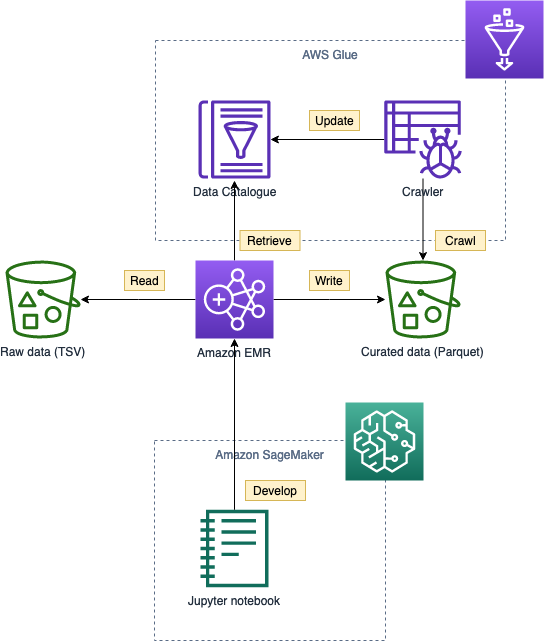
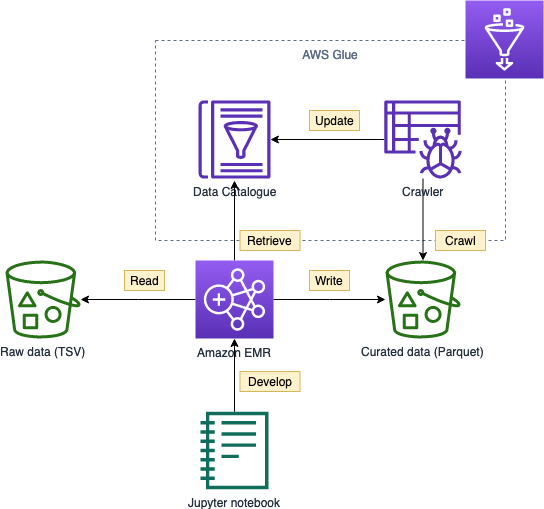
Replace SageMaker notebook by EMR nb

diff --git a/hazelnut/data lake/05a_processing_emr.md b/hazelnut/data lake/05a_processing_emr.md
@@ -1,6 +1,6 @@
 In this task you will
 * Provision an Amazon EMR cluster for data processing with Spark
-* Provision a notebook instance in Amazon SageMaker and connect to the EMR cluster
+noo* Create an EMR notebook and connect to the cluster 
 * Develop a simple PySpark script to convert the customer reviews to Parquet files partitioned by product category
 
 ![data processing with EMR and SageMaker](images/05_processing.png)
@@ -10,9 +10,7 @@ In this task you will
   - [Hardware configuration](#hardware-configuration)
   - [General options](#general-options)
   - [Security options](#security-options)
-- [Provision Amazon SageMaker](#provision-amazon-sagemaker)
-  - [Lifecycle configurations](#lifecycle-configurations)
-  - [Notebook instance](#notebook-instance)
+- [Create EMR notebook](#create-emr-notebook)
 - [Author a data processing job](#author-a-data-processing-job)
 
 # Provision Amazon EMR
@@ -42,11 +40,19 @@ In this task you will
 
 ## Hardware configuration
 
-1. Modify the cluster nodes and instances
-   * 1 master node (m5.xlarge)
-   * 5 core nodes (r5.2xlarge)
-   * 0 task nodes
-2. Click **Next**
+1. Cluster composition: *Instance fleets*
+2. Networking
+   1. Select the default VPC
+   2. Select all available subnets (shift+mouse click)
+3. Allocation strategy: *checked* (recommended)
+![EMR hardware config](images/emr-hardware.png)
+4. Cluster Nodes and Instances
+   1. master node - m5.xlarge (default)
+   2. core node - r5.xlarge, r5.2xlarge, r5.4xlarge; 40 on-demand units
+   3. task node - nil
+![EMR cluster config](images/emr-cluster.png)
+5. Click **Next**
+
 
 > Notice the **spot instance** and **cluster scaling** features for further cost optimization
 
@@ -57,59 +63,21 @@ In this task you will
 ## Security options
 1. Provide an EC2 key pair (generated in [README.md](README.md)) so we can connect to the master node via SSH
 2. Click **Create cluster**
-3. Wait a minute and copy the `master public DNS` (e.g., ec2-3-94-120-86.compute-1.amazonaws.com)
+3. It takes around 5 minutes to provision the cluster
 
-# Provision Amazon SageMaker
+# Create EMR notebook
 
-## Lifecycle configurations
-
-1. Open the [Amazon SageMaker Console](https://console.aws.amazon.com/sagemaker/home)
-1. Click **Lifecycle configurations** under **Notebook**
-2. Click **Create configurations**
-3. Name: *emr*
-4. Modify the `EMR_MASTER_IP` and paste into the script
-    ```bash
-    # PARAMETERS
-    EMR_MASTER_IP=emr.master.ip.or.dns
-
-
-    cd /home/ec2-user/.sparkmagic
-
-    echo "Fetching Sparkmagic example config from GitHub..."
-    wget https://raw.githubusercontent.com/jupyter-incubator/sparkmagic/master/sparkmagic/example_config.json
-
-    echo "Replacing EMR master node IP in Sparkmagic config..."
-    sed -i -- "s/localhost/$EMR_MASTER_IP/g" example_config.json
-    mv example_config.json config.json
-
-    echo "Sending a sample request to Livy.."
-    curl "$EMR_MASTER_IP:8998/sessions"                                    
-    ```
-
-## Notebook instance
-
-1. Click **Notebook instances** under **Notebook**
-3. Click **Create notebook instance**
-4. Notebook instance settings:
-   1. Notebook instance name: reviews
-   2. Notebook instance type: ml.t2.medium (default)
-   3. Elastic Inference: None (default)
-   4. Lifecycle configuration: *emr*
-![lifecycle config](images/sagemaker-lifecycle.png)
-5. Permissions and encryption:
-   1. Create a new IAM role
-      1. Grant access to any S3 bucket![IAM role](images/sagemaker-iam.png)
-   2. Enable root access (default)
-   3. No custom encryption (default)
-6. Network:
-   1. Select the default VPC
-   2. Select the **same subnet** as the EMR cluster
-   3. Select the `ElasticMapReduce-master` security group
-   4. Enable direct Internet access (default)![network](images/sagemaker-network.png)
-7. Create notebook instance
+1. On the navigation menu, click **Notebooks**
+2. Notebook name: *reviews*
+3. Cluster: Choose the cluster provisioned in the previous section
+4. Security groups: *default*
+5. AWS service role: *Create default role*
+6. Notebook location: *default*
+7. Click **Create notebook**
 
 # Author a data processing job
 
-1. From the notebook instance, open **Jupyter**
-2. Upload the notebook: [05a_processing_emr_notebook.ipynb](05a_processing_emr_notebook.ipynb)
-3. Follow the instructions within
+1. Click **Open in Jupyter** or **JupyterLab**
+2. Open the page [05a_processing_emr_notebook.ipynb](05a_processing_emr_notebook.ipynb), download the ipynb file
+3. Upload and open the notebook file
+4. Follow the instructions within
